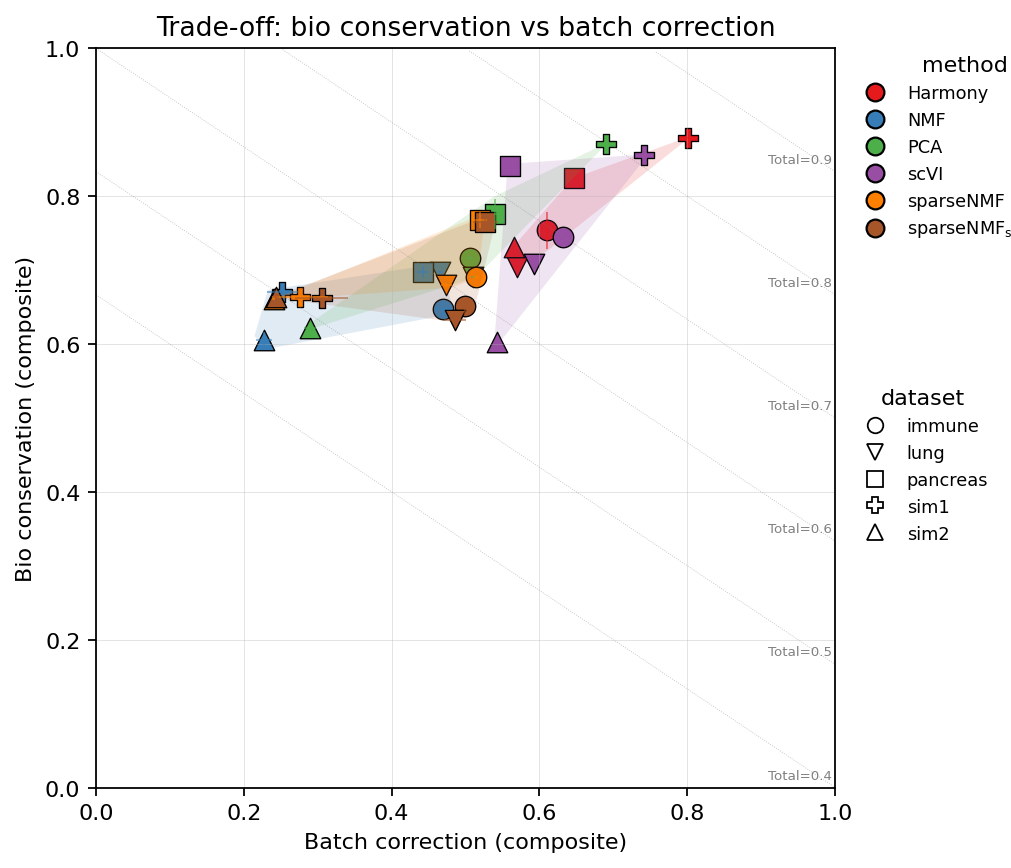
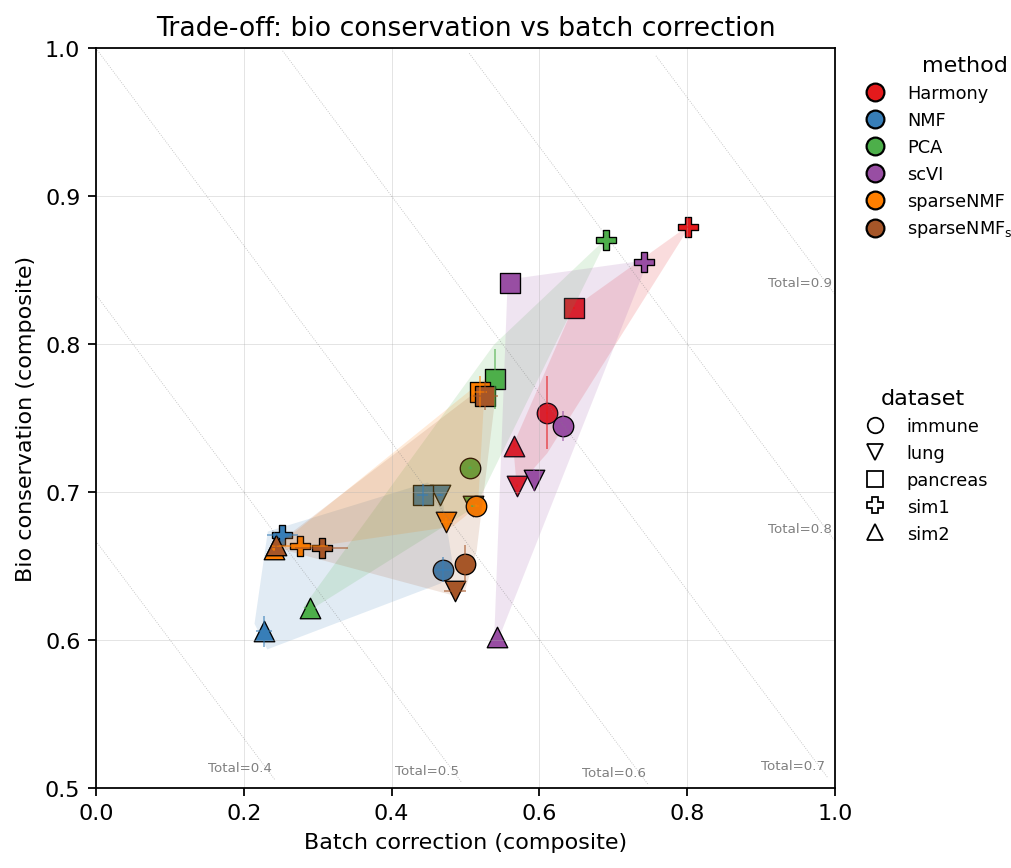
viz: square box + independent x/y zoom on tradeoff scatter
Switched from set_aspect('equal') to set_box_aspect(1). The
'equal data units' mode forced both axes to share a range; the
'square box' mode keeps the plotting box square while letting
each axis pick its own zoom independently.

So when only ONE axis has its data above 0.5, that axis zooms
in and the other stays wide — and the plot is still square.

Iso-composite diagonals will appear at non-45° angles when the
axis ranges differ. That's the expected cost of independent zoom
+ square aspect (you can't have all three: square, equal-data-
units, and independent zoom).

diff --git a/benchmarks/viz.py b/benchmarks/viz.py
@@ -498,15 +498,17 @@ def plot_bio_vs_batch_tradeoff(
             )
 
     # Dynamic zoom: integration benchmarks usually live in the
-    # [0.5, 1.0] corner, and an [0, 1] view wastes ~75% of the plot
-    # area on space the data never visits. Tighten BOTH lower limits
-    # to 0.5 when no data point on either axis falls below — keeping
-    # both bounds in sync preserves the square aspect. Falls back to
-    # 0 for both when any outlier method goes below 0.5 on either axis.
+    # [0.5, 1.0] corner, and an [0, 1] view wastes plot area on
+    # space the data never visits. Tighten each axis's lower limit
+    # to 0.5 INDEPENDENTLY when that axis has no points below — so
+    # one axis can zoom in while the other stays wide if its data
+    # has outliers. Square *box* aspect is preserved via
+    # set_box_aspect(1) below (data units may differ but the
+    # plotting box stays square).
     min_x = float(np.nanmin(df["Batch correction"].dropna())) if df["Batch correction"].notna().any() else 0.0
     min_y = float(np.nanmin(df["Bio conservation"].dropna())) if df["Bio conservation"].notna().any() else 0.0
-    zoom_in = min_x >= 0.5 and min_y >= 0.5
-    x_lo = y_lo = 0.5 if zoom_in else 0.0
+    x_lo = 0.5 if min_x >= 0.5 else 0.0
+    y_lo = 0.5 if min_y >= 0.5 else 0.0
 
     # Faint diagonal iso-composite lines: total = 0.4*batch + 0.6*bio.
     # Generate over [x_lo, 1] so annotations land inside the visible area.
@@ -533,7 +535,11 @@ def plot_bio_vs_batch_tradeoff(
     ax.grid(True, linewidth=0.3, alpha=0.5)
     ax.set_xlim(x_lo, 1)
     ax.set_ylim(y_lo, 1)
-    ax.set_aspect("equal", adjustable="box")  # SQUARE plot area
+    # Square BOX (not equal data units) so independent zoom levels on
+    # x and y don't break the square aspect. Iso-composite diagonals
+    # will appear at a non-45° slope when the ranges differ — that's
+    # the cost of letting each axis pick its own zoom.
+    ax.set_box_aspect(1)
 
     # Legends: methods (color) + datasets (marker).
     method_handles = [